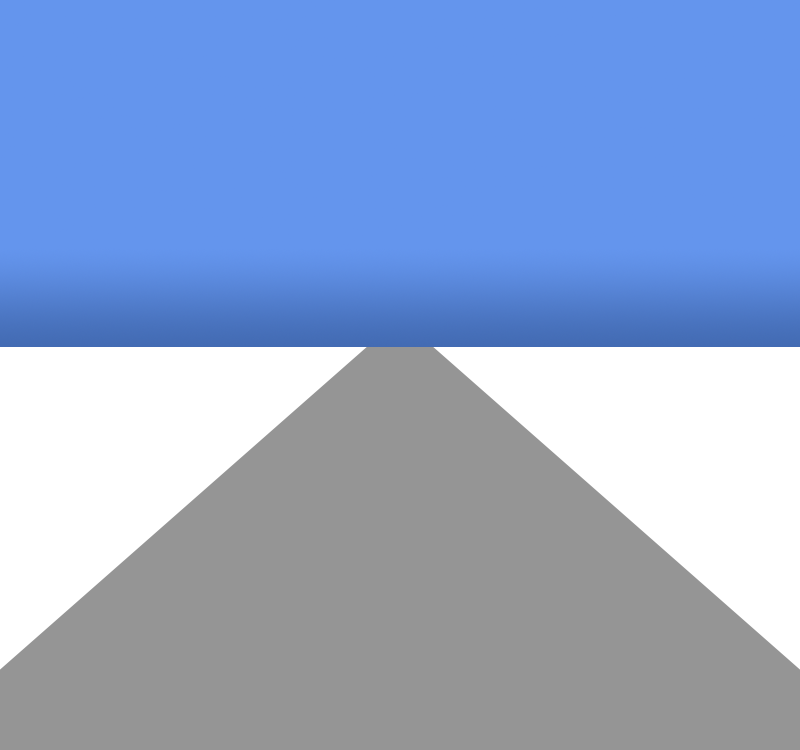
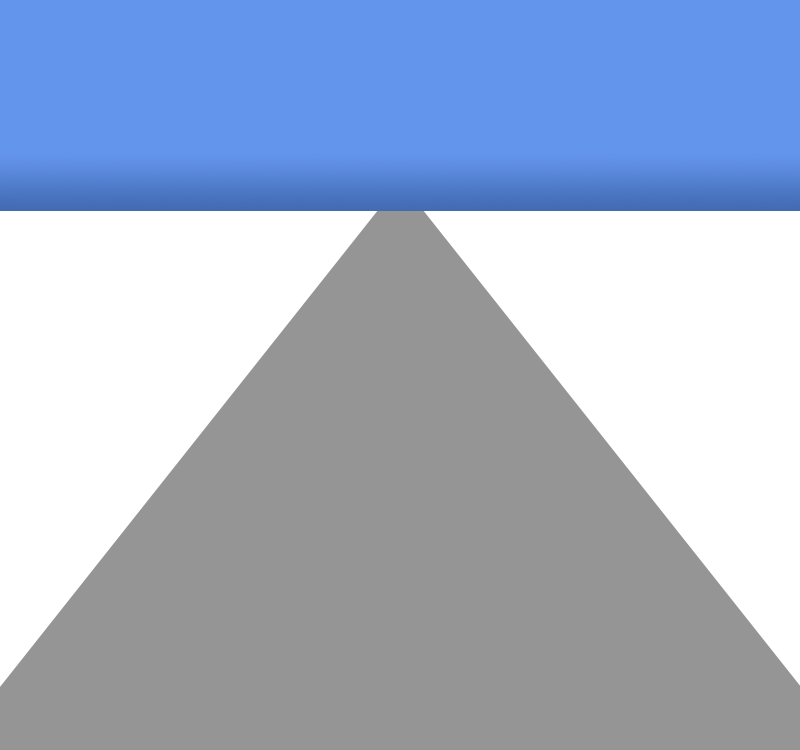
no~~

diff --git a/開車.html b/開車.html
@@ -47,35 +47,37 @@
       z-index: 99;
     }
 
-    #carbar {
+    .carbar {
       width: 800px;
       height: 120px;
       position: absolute;
       transform: translateX(-50%);
       left: 400px;
-      bottom: 300px;
+      top: 200px;
       z-index: 10;
       border: 1px solid darkblue;
     }
 
-    #car {
-      width: calc(100px / 11.75);
-      height: calc(120px / 11.75);
-      background-color: rgb(158, 111, 29);
+    .car {
+      width: 8.51px;
+      height: 5px;
+      background-color: rgb(0, 0, 0);
       position: absolute;
       transform: translateX(-50%);
       left: 400px;
       z-index: 99;
+      border-radius: 50%;
     }
 
     #bo {
       /* *11.75 */
-      width: 100px;
-      height: 120px;
+      width: 80px;
+      height: 80px;
       background-color: rgb(255, 245, 228);
       position: absolute;
       transform: translateX(-50%);
       bottom: 0px;
+      left: 50px;
       z-index: 30;
       /* box-shadow: 1px 1px 2px; */
     }
@@ -102,8 +104,8 @@
   <div id="move"></div>
   <div id="box">
     <div id="bo"></div>
-    <div id="carbar">
-      <div id="car"></div>
+    <div class="carbar">
+      <div class="car"></div>
     </div>
   </div>
 
@@ -112,23 +114,28 @@
     const box = document.getElementById("box")
     const bo = document.getElementById("bo")
     const move = document.getElementById("move")
-    const car = document.getElementById("car")
+    const car = document.getElementsByClassName("car")
+    const carbar = document.getElementsByClassName("carbar")
 
+
+
+    let we = 0
 
     move.onmousemove = (e) => {
       bo.style.left = `${e.offsetX - 300}px`
+      we = e.offsetX - 100
 
       if (300 < e.offsetX < 1100 && 119 < e.offsetY < 879) {
         // move.style.cursor = `none`
       }
-      if (e.offsetX < 320) {
-        bo.style.left = `21px`
+      if (e.offsetX < 340) {
+        bo.style.left = `40px`
       }
       if (e.offsetX < 300) {
         move.style.cursor = `default`
       }
-      if (e.offsetX > 1080) {
-        bo.style.left = `779px`
+      if (e.offsetX > 1060) {
+        bo.style.left = `760px`
       }
       if (e.offsetX > 1100) {
         move.style.cursor = `default`
@@ -139,36 +146,62 @@
       }
     }
 
-    let rleft = 400
-    let bt = 350
-    let bw = 8.5
-    let bf = 10.2
+    const game = () => {
+      $('.carbar').css('display', 'block')
+      $('.carbar').css('top', '200px')
+      $('.car').css('left', '400px')
+      $('.car').css('width', '8.51px');
+      $('.car').css('height', '5px')
 
-    setInterval(function () {
-      bt += 40
-      $('#carbar').animate({
-        top: `${bt}px`,
-      }, 50)
-      if (bt > 750) {
-        $('#carbar').remove()
+
+      let rleft = 400
+      let bt = 200
+      let bw = 8
+      let bf = 5
+
+      let aa = setInterval(() => {
+        bt += 20
+        $('.carbar').stop().animate({
+          top: `${bt}px`,
+        }, 25)
+        if (bt > 800 && we - 80 > rleft && rleft > we - 320) {
+          alert('!!')
+          rleft = -2000
+        }
+        if (bt > 900) {
+          $('.carbar').css('display', 'none')
+        }
+      }, 25);
+
+
+      const mm = (car) => {
+        rleft += (Math.round(Math.random() * 2) - 1) * (Math.floor(Math.random() * 90))
+        bw += 20
+        bf += 4
+        $('.car').stop().animate({
+          left: `${rleft}px`,
+          width: `${bw}px`,
+          height: `${bf}px`
+        }, 100)
       }
-    }, 50);
+      mm(car)
 
-
-    const mm = (car) => {
-      rleft += (Math.round(Math.random() * 2) - 1) * (Math.floor(Math.random() * 50))
-      bw += 18
-      bf += 22
-      $('#car').stop().animate({
-        left: `${rleft}px`,
-        width: `${bw}px`,
-        height: `${bf}px`
-      }, 100, function () {
+      let bb = setInterval(() => {
         mm(car)
-      })
-    }
+      }, 100);
 
-    mm(car)
+      setInterval(function () {
+        clearInterval(aa)
+        clearInterval(bb)
+        game()
+      }, 1000);
+
+    }
+    game()
+
+
+
+
 
 
   </script>
